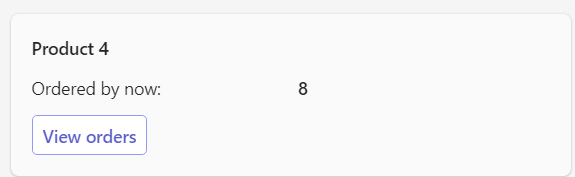
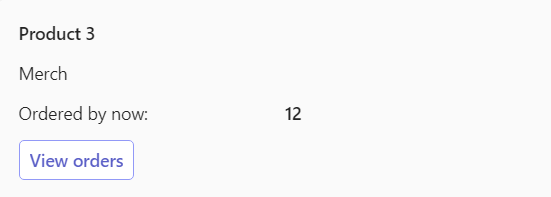
Fixes, recording

diff --git a/bot/services/azServices.ts b/bot/services/azServices.ts
@@ -13,6 +13,7 @@ export async function updateOrders(data: Record<string, unknown>) {
   const tableClient = getTableClient();
   const prodId = new String(data.Id ?? "");
   const prodName = new String(data.Name ?? "");
+  const prodCategory = new String(data.Category ?? "");
   const prodOrders: Number = new Number(data.Orders ?? 0);
   const prodAddOrders1: Number = new Number(data.orderId ?? 0);
   const prodAddOrders2: Number = new Number(data.orderId2 ?? 0);
@@ -33,7 +34,7 @@ export async function updateOrders(data: Record<string, unknown>) {
   };
   await tableClient.upsertEntity(tableEntity);
 
-  const returnProduct: IProduct = { Id: prodId.toString(), Name: prodName.toString(), Orders: newProduductOders, Category: ''};
+  const returnProduct: IProduct = { Id: prodId.toString(), Name: prodName.toString(), Orders: newProduductOders, Category: prodCategory.toString()};
 
   return returnProduct
 }

diff --git a/bot/actionApp.ts b/bot/actionApp.ts
@@ -56,8 +56,7 @@ export class ActionApp extends TeamsActivityHandler {
     };
   }
 
-  public async onAdaptiveCardInvoke(_context: TurnContext, _invokeValue: AdaptiveCardInvokeValue): Promise<AdaptiveCardInvokeResponse> {      
-    // const verb: string = _invokeValue.action.verb;
+  public async onAdaptiveCardInvoke(_context: TurnContext, _invokeValue: AdaptiveCardInvokeValue): Promise<AdaptiveCardInvokeResponse> {
     const cardData: Record<string, unknown> =  _invokeValue.action.data;
     const prodUpdate: IProduct = await updateOrders(cardData);
 

diff --git a/ui/src/components/InitialAction.tsx b/ui/src/components/InitialAction.tsx
@@ -82,7 +82,7 @@ const InitialAction: React.FC<{}> = () =>  {
               onSelectionChange={(_: any, data: any) => {
                 setSelectedItems(data.selectedItems);
                 if (data.selectedItems[0] === selectedItems[0]) {
-                  alert("Double click!");
+                  btnClicked();
                 }
                 products.forEach(p => {
                   if (p.Id === data.selectedItems[0]) {

diff --git a/README.md b/README.md
@@ -17,10 +17,12 @@ App result:
 ![Order Card Result with weekday order option](assets/02OrderAdativeCard.png)
 
 
-|Disday Order Card result|
+|Display Order Card result|
 :-------------------------:
-![Disday Order Card result](assets/03DisplayOrderResult.png)
+![Display Order Card result](assets/03DisplayOrderResult.png)
 
+|App in action|
+![App in action](assets/04msgext-action-search-action-node.gif)
 
 ## Tools and Frameworks
 
